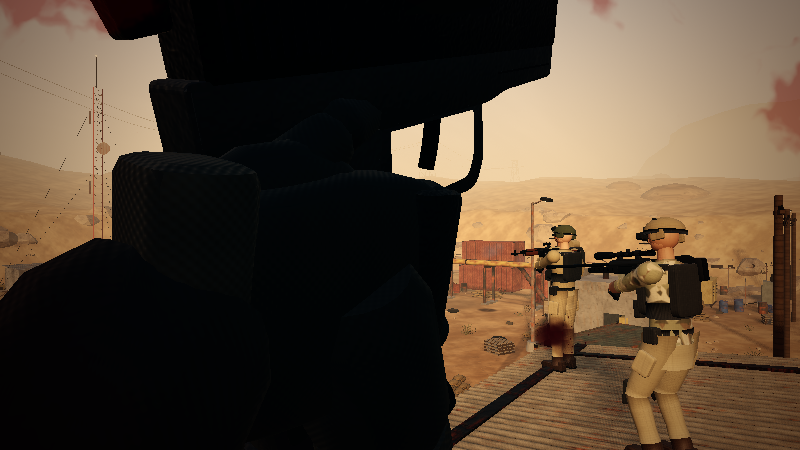
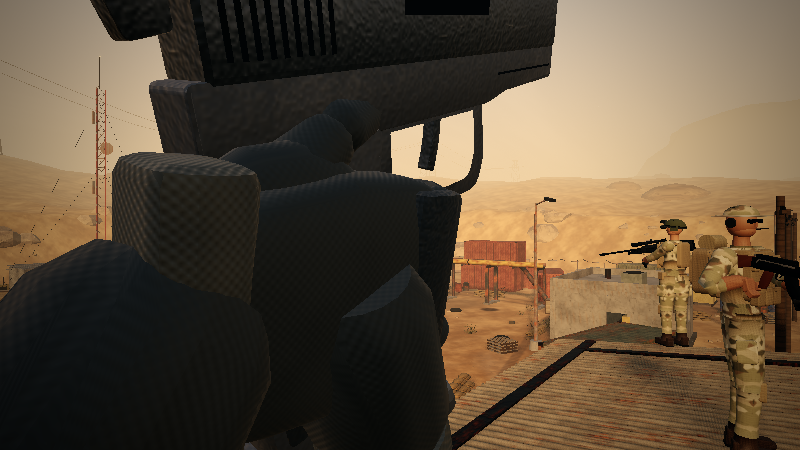
weapons: menu preview thumbnail isolation, neutral studio env, world-model LOD filter, report
Claude-Session: https://claude.ai/code/session_01Thf9A9Hs7EcZAf21az3UH5

diff --git a/src/weapons/models-rifles.ts b/src/weapons/models-rifles.ts
@@ -220,7 +220,7 @@ export function buildACR(): ModelSpec {
     relief: 0.3,
     hipPos: [0.12, -0.205, -0.43],
     hipRot: [0.02, 0.1, 0.06],
-    rh: { p: [0.03, -0.045, 0.058], r: [-0.2, 0, -1.5708], grip: [0.5, 0.45, 0.85, 0.86, 0.84] },
+    rh: { p: [0.027, -0.045, 0.058], r: [-0.2, 0, -1.5708], grip: [0.5, 0.45, 0.85, 0.86, 0.84] },
     lh: { p: [-0.012, 0.008, -0.33], r: [0.0, -1.2, 3.14], grip: [0.45, 0.72, 0.78, 0.8, 0.8] },
     magWell: [0, -0.02, -0.1],
     magDir: [0, -1, -0.17],
@@ -432,7 +432,7 @@ export function buildM4A1(): ModelSpec {
     relief: 0.25,
     hipPos: [0.12, -0.205, -0.43],
     hipRot: [0.02, 0.1, 0.06],
-    rh: { p: [0.03, -0.045, 0.06], r: [-0.2, 0, -1.5708], grip: [0.5, 0.45, 0.85, 0.86, 0.84] },
+    rh: { p: [0.027, -0.045, 0.06], r: [-0.2, 0, -1.5708], grip: [0.5, 0.45, 0.85, 0.86, 0.84] },
     lh: { p: [-0.012, 0.012, -0.3], r: [0.0, -1.2, 3.14], grip: [0.45, 0.72, 0.78, 0.8, 0.8] },
     magWell: [0, -0.02, -0.098],
     magDir: [0, -1, -0.17],
@@ -545,7 +545,7 @@ export function buildAK47(): ModelSpec {
     relief: 0.36,
     hipPos: [0.12, -0.205, -0.43],
     hipRot: [0.02, 0.1, 0.06],
-    rh: { p: [0.03, -0.05, 0.075], r: [-0.25, 0, -1.5708], grip: [0.5, 0.45, 0.86, 0.86, 0.84] },
+    rh: { p: [0.027, -0.05, 0.075], r: [-0.25, 0, -1.5708], grip: [0.5, 0.45, 0.86, 0.86, 0.84] },
     lh: { p: [-0.012, 0.01, -0.31], r: [0.0, -1.2, 3.14], grip: [0.45, 0.72, 0.78, 0.8, 0.8] },
     magWell: [0, -0.02, -0.08],
     magDir: [0, -1, -0.45],

diff --git a/src/weapons/geo.ts b/src/weapons/geo.ts
@@ -284,13 +284,23 @@ export class Builder {
     return { root, parts }
   }
 
-  /** All geometry merged into a single vertex-coloured mesh geometry (for bot weapons). */
-  buildWorld(colorOf: (k: MatKey) => [number, number, number] | null): BufferGeometry {
+  /**
+   * All geometry merged into a single vertex-coloured mesh geometry (for bot
+   * weapons). Pieces whose second-largest dimension is below `minFeature`
+   * (rail teeth, pins, screws, slots) are dropped — invisible at bot range.
+   */
+  buildWorld(colorOf: (k: MatKey) => [number, number, number] | null, minFeature = 0.006): BufferGeometry {
     const list: BufferGeometry[] = []
     for (const b of this.buckets.values()) {
       const c = colorOf(b.mat)
       if (!c) continue
       for (const g0 of b.geos) {
+        if (minFeature > 0) {
+          g0.computeBoundingBox()
+          const bb = g0.boundingBox!
+          const d = [bb.max.x - bb.min.x, bb.max.y - bb.min.y, bb.max.z - bb.min.z].sort((a, b) => a - b)
+          if (d[1]! < minFeature) continue
+        }
         const g = g0.clone()
         const n = g.attributes.position!.count
         const col = new Float32Array(n * 3)

diff --git a/src/weapons/preview.ts b/src/weapons/preview.ts
@@ -123,6 +123,14 @@ export function weaponThumbnail(id: WeaponId, w = 240, h = 96): string {
   const prevParent = m.pivot.parent
   const prevRot = m.pivot.rotation.clone()
   const prevScale = m.pivot.scale.x
+  // render this model alone: hide whatever the live preview is showing
+  const hidden: Group[] = []
+  for (const o of models.values()) {
+    if (o !== m && o.pivot.visible) {
+      o.pivot.visible = false
+      hidden.push(o.pivot)
+    }
+  }
   st.scene.add(m.pivot)
   m.pivot.rotation.set(0.05, -Math.PI / 2 + 0.12, 0)
   m.pivot.scale.setScalar(1)
@@ -140,6 +148,7 @@ export function weaponThumbnail(id: WeaponId, w = 240, h = 96): string {
   m.pivot.rotation.copy(prevRot)
   m.pivot.scale.setScalar(prevScale)
   st.shadow.visible = true
+  for (const p of hidden) p.visible = true
   active?.refit()
   thumbs.set(key, url)
   return url

diff --git a/src/weapons/materials.ts b/src/weapons/materials.ts
@@ -197,9 +197,9 @@ export function makeStudioEnvironment(renderer: WebGLRenderer): Texture {
   const geo = new SphereGeometry(50, 48, 32)
   const pos = geo.attributes.position!
   const col = new Float32Array(pos.count * 3)
-  const top = new Color(0x7f98b4)
-  const hor = new Color(0xe0c49a)
-  const bot = new Color(0x4a3c2c)
+  const top = new Color(0x8a9cb2)
+  const hor = new Color(0xcfc8bc)
+  const bot = new Color(0x3c3936)
   const tmp = new Color()
   for (let i = 0; i < pos.count; i++) {
     const y = pos.getY(i) / 50

diff --git a/docs/agent-reports/weapons.md b/docs/agent-reports/weapons.md
@@ -1,35 +1,37 @@
-# Weapons & Viewmodel report
+# Weapons & Viewmodel report (pass 2)
 
-## Features
-- **WeaponSystem** (API unchanged): two slots plus 1 frag, rpm fire rate, auto or semi, phase gating.
-  - Intervention bolt cycle (unscopes, then re-scopes). SPAS pump plus a shell reload that firing interrupts.
-  - Tactical and empty reloads (Sleight of Hand halves them). Sprint or switch cancels a reload.
-  - Switch (Y, wheel, 1/2), sprint-out delay, ADS from `adsTime`.
-  - Spread bloom (Steady Aim ×0.65), recoil, dry-fire with auto-reload, frag cook/overcook, knife.
-  - Hitscan pellets from the eye. The world muzzle (viewmodel NDC unprojected) feeds `weapon:fire` and tracers. All events are emitted.
-- **Viewmodel**: articulated gloved hands, forearms with rolled multicam sleeves and a watch.
-  - Spring animation: breathing, figure-8 bob, sprint, stance, jump and land, sway, recoil.
-  - ADS puts the sight exactly on the camera axis.
-  - Reloads with a falling mag and charging handle. Pistol slide locks when empty.
-  - Bolt, pump, shells, knife, frag, switch, ladder.
-- **FX** (pooled): flash variants with a light, smoke, brass and shells.
-- **Scope**: mil-dot overlay with sway that the aim follows. Sprint holds breath.
-- **World models**: one vertex-coloured mesh per weapon, with a `muzzle` node.
+## What changed
+- **Gun models rebuilt from reference proportions** (ACR, M4A1, AK-47, UMP45, SPAS-12, USP .45, Desert Eagle).
+  - New helpers in `geo.ts`: front-section extrusions, MIL-STD-1913 rails with real teeth, screws, cross pins, serrations.
+  - M4: 33 mm bore-to-rail, KAC RAS, A2 front sight base, birdcage, BUIS, forward assist, dust cover, A2 grip, buffer tube and 6-position stock.
+  - AK: AKM stamped receiver with rivets, ribbed cover, tangent sight, hooded post, gas tube vents, cleaning rod, slant brake, ribbed mag.
+  - ACR: monolithic upper, angular lower and magwell, vented handguard, folding stock, Aimpoint-style dot.
+  - Pistols and SPAS also got slide sections, controls, stippling and pumps.
+- **Materials**
+  - New parkerized/anodized metal, brushed steel, stippled polymer and laminated-walnut generators.
+  - Shader **edge wear** from screen-space curvature.
+  - Metal albedos raised to physical values; they were near-black and rendered as silhouettes in game.
+  - A shared IBL gain plus a view fill/rim light keep the gun readable in shade.
+- **3D menu preview** (`preview.ts`, `WeaponPreview`: `mount`/`setWeapon`/`setVisible`/`dispose`)
+  - Uses the same cached geometry and materials as the viewmodel, with a studio PMREM, warm key and cool rim.
+  - Turntable, drag-rotate with inertia, idle bob, spin-in plus fade on change. Renders only while the class screen is visible.
+  - Picker and slot icons are thumbnails rendered once from the real models (`weaponThumbnail`).
+  - `class-screen.ts` is wired to it (integrator exception). Killfeed SVGs are untouched.
+- **Hands**: superellipsoid palm with a domed back and wrist taper, knuckle bumps, thicker finger bases.
+- **World models**: the same builders feed the bot meshes, with a <6 mm detail filter (vertex count roughly halved on the heaviest models).
 
-## Status
-All 8 guns plus frag and knife render. ADS alignment was checked on every gun (`g-a1.png`, `g-a2.png`). Screenshots are in `docs/agent-reports/weapons/`.
-
-## Verified in browser (event log)
-Auto fire, tactical reload, switch, pistol empty → auto-reload with slide release, knife hit event, frag throw and explode, Intervention scope → unscope during bolt → re-scope, SPAS pump, shell reload interrupted by fire, no firing during intro.
+## Verified (Playwright, swiftshader)
+- Menu preview and thumbnails for every weapon.
+- First person: hip and ADS for all 8 guns. Sights stay on centre after the height changes.
+- Mid-reload frame and hand close-ups.
+- Screenshots: `docs/agent-reports/weapons/` (`ia*`, `ib*`, `vh*`, `va*`, `vl`, `vx`, `menu-class-*`).
+- `bunx tsc --noEmit` is clean.
 
 ## Known issues
-- Hands are still blocky up close, and the knife slash reads end-on mid-swing.
-- Brass lives in camera space, so it doesn't stay put in the world when you turn.
-- Bot world models are about 15–30k verts each.
-- Commando perk is ignored.
+- Hands still look blocky up close at odd angles.
+- The Intervention, frag and knife got no model pass.
+- Bot weapons are still 20–52k verts each; there is one draw call per bot.
+- Pistol thumbnails are small because the frame is fitted by length.
 
 ## CORE REQUESTS
-- `src/ui/ui.css` is missing at 02e0051, so the app 500s. I tested with an untracked empty stub.
-- `audio.ts` ConvolverNode sample-rate mismatch throws in `startMatch` (headless 44.1 kHz).
-- `fireBullet` should return the hit point for actor hits; tracers currently approximate it.
-- Debug handle: `window.__weapons` (`timeScale`, `debugPose`, `debugGive`).
+- None new.
